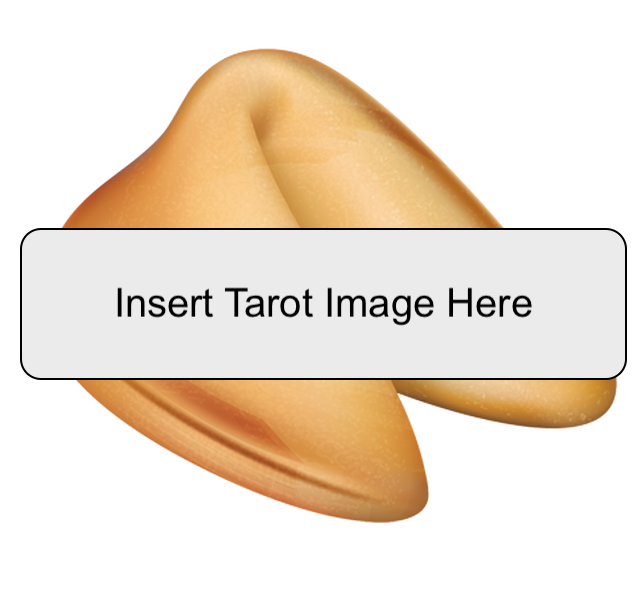
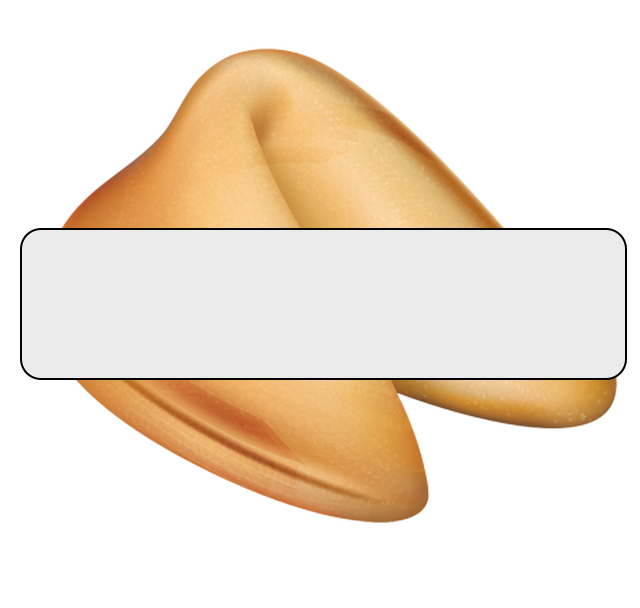
Working GPT and good readability/documentation

Changed region(s): [[0.1562, 0.4688, 0.8438, 0.5312]]

diff --git a/src/styles/style.css b/src/styles/style.css
@@ -6,21 +6,33 @@ body {
     display: flex;
     justify-content: space-between;
     margin-top: 20px;
-    flex-wrap: wrap; /* Allow cookies to wrap to new lines if there's not enough room */
+    flex-wrap: wrap; 
 }
+/* for the fortune cookie images */
 .fortuneCookie {  
     background-image: url('../../assets/images/cookie.png');
     background-size: cover;
     width: 15%; 
-    /* height: 100px;  */
+    /* height gets handled in handler.js */
     position: relative;
     border-radius: 50%;
-    margin: 0 5px; /* Reduce space between cookies */
+    margin: 0 5px; 
     transition: background-image 0.3s;
+    display: flex; 
+    justify-content: center; 
+    align-items: center; 
 }
+/* show the cracked cookie image on hover */
 .fortuneCookie:hover {
     background-image: url('../../assets/images/cookiecrack.png');
 }
+/* when the user clicks on the cookie, open it */
 .fortuneCookie.open {
     background-image: url('../../assets/images/cookiepaper.png');
+}
+/* for the "tarot" images on the cookie paper */
+.fortuneCookie img {
+    width: 30%;
+    height: 30%;
+    object-fit: cover;
 }

diff --git a/index.html b/index.html
@@ -12,8 +12,12 @@
     </div>
     <div id="fortuneCookies"></div>
     <div id="stageThree" style="display: none">
-        <button id="submitButton">See your fortune!</button>
+        <button id="seeFortuneButton">See your fortune!</button>
+    </div>
+    <div id="stageFour" style="display: none">
+        <p id="yourFortune"></p>
     </div>
     <script src="/src/scripts/handler.js"></script>
+    <script src="/src/scripts/app.js"></script>
 </body>
 </html>
